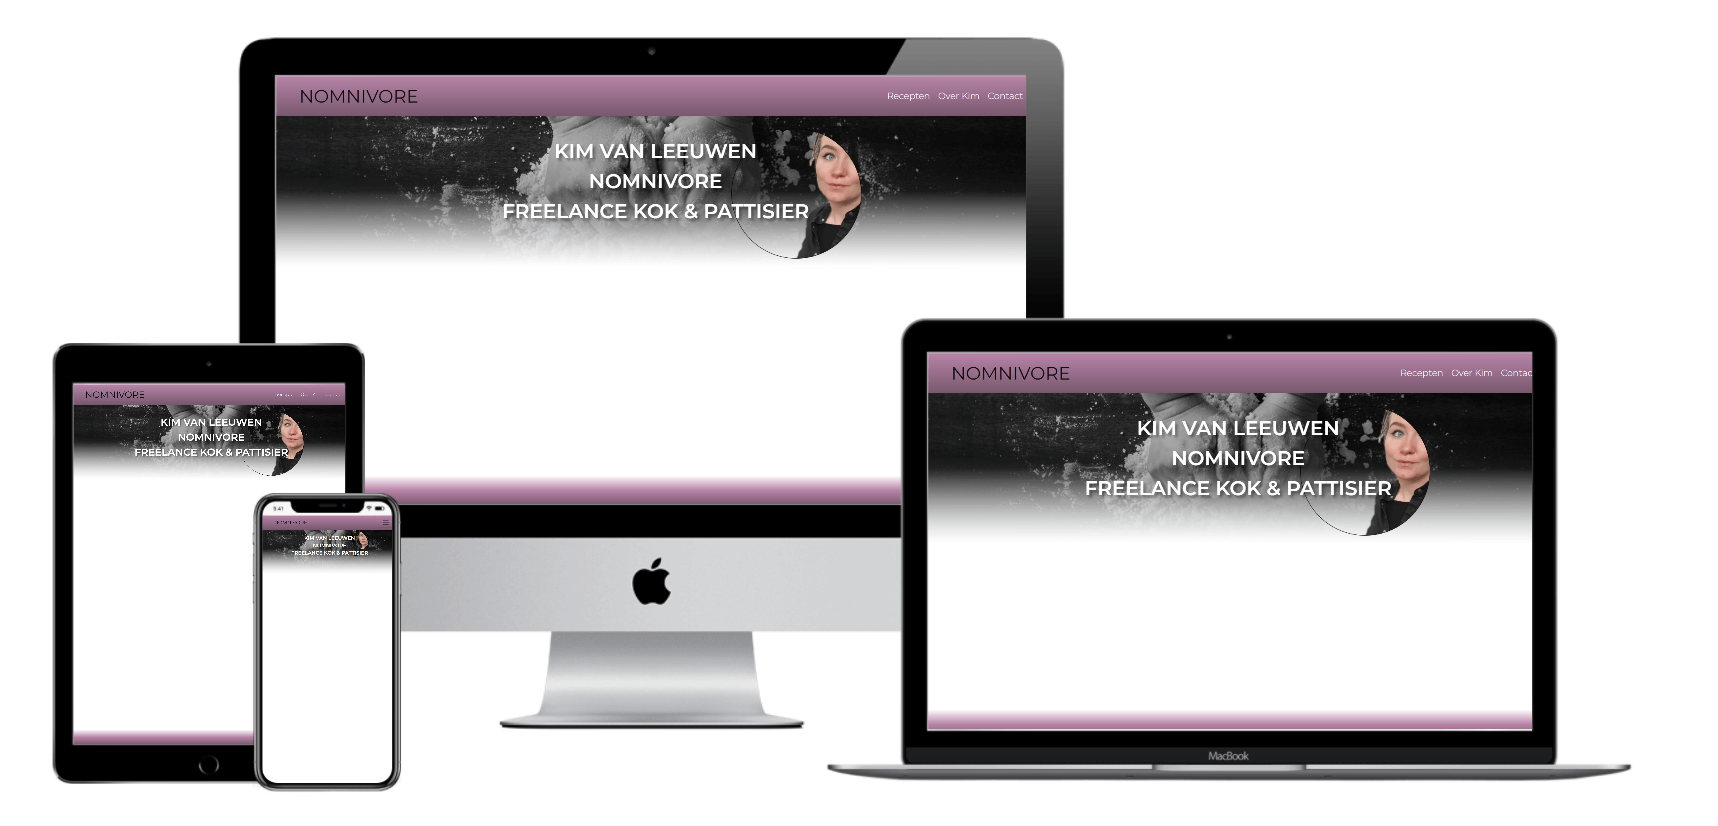
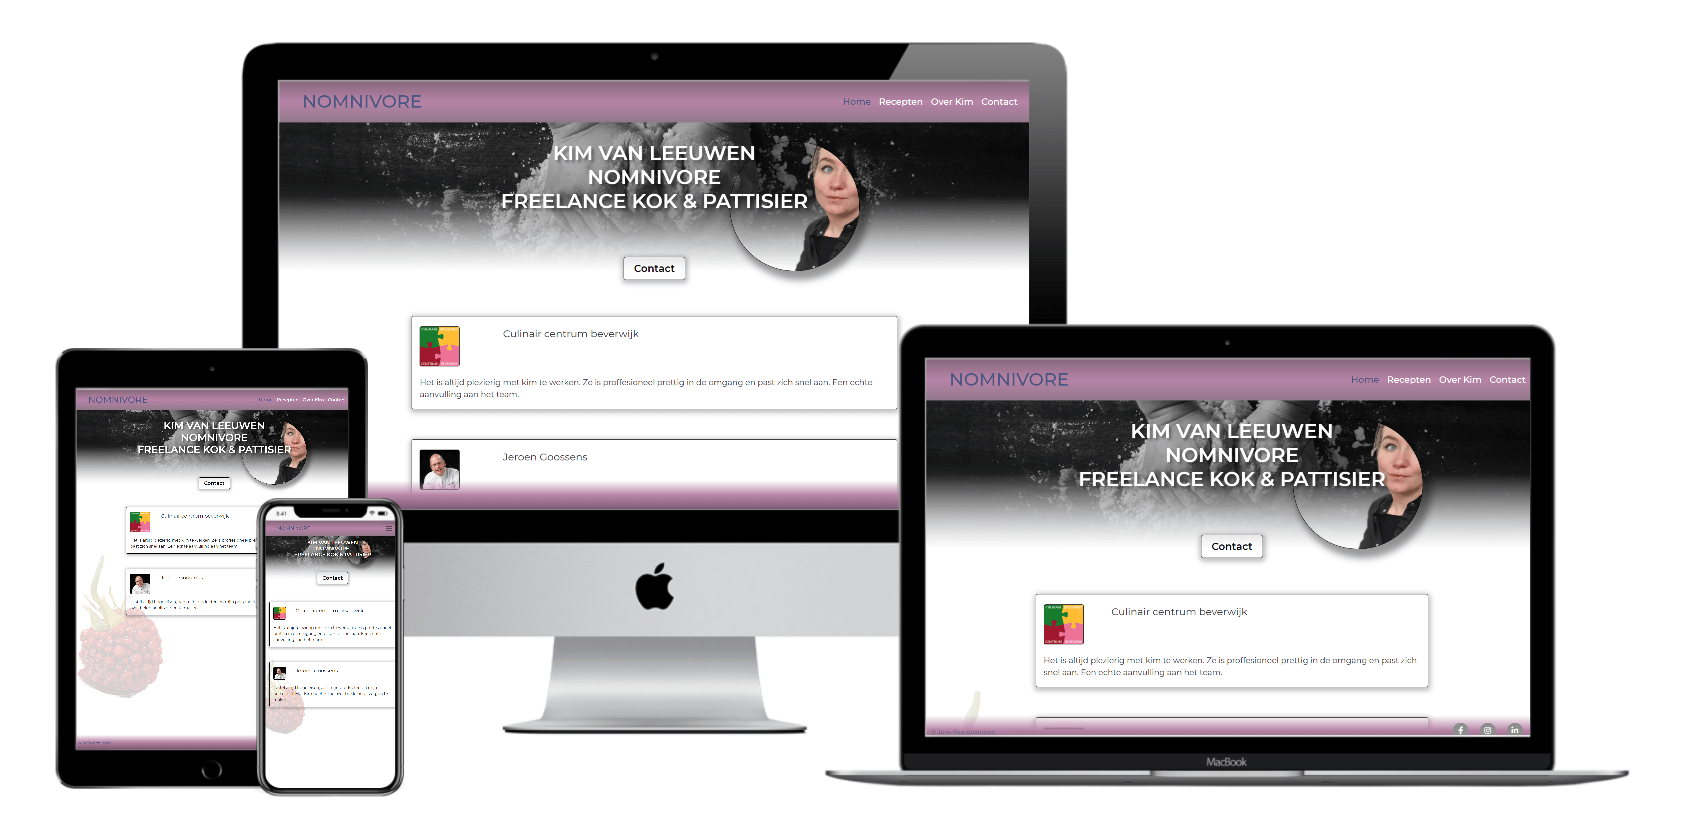
Added testing.md file, updated readme.md, corrected some code from dutch to english.

diff --git a/index.html b/index.html
@@ -62,30 +62,30 @@
     <div class="container-fluid">
         <div class="row justify-content-md-center">
             <div class="col-md-8">
-                <div class="col-md-12 referentie">
+                <div class="col-md-12 reference">
                     <div class="row">
                         <div class="col-2">
-                        <div class="referentie-logo-1"></div>
+                        <div class="reference-logo-1"></div>
                         </div>
-                        <div class="col-10 referentie-titel">Culinair centrum beverwijk</div>
+                        <div class="col-10 reference-titel"><h1>Culinair centrum beverwijk</h1></div>
                     </div>
                     <div class="row">
-                        <div class="col-12 referentie-text"><p>Het is altijd plezierig met kim te werken.  Ze is proffesioneel prettig in de omgang en past zich snel aan. 
+                        <div class="col-12 reference-text"><p>Het is altijd plezierig met kim te werken.  Ze is proffesioneel prettig in de omgang en past zich snel aan. 
                         Een echte aanvulling aan het team.</p>
                         </div>
                     </div>
                 </div>
             </div>
             <div class="col-md-8">
-                <div class="col-12 referentie">
+                <div class="col-12 reference">
                     <div class="row">
                         <div class="col-2">
-                        <div class="referentie-logo-2"></div>
+                        <div class="reference-logo-2"></div>
                         </div>
-                        <div class="col-10 referentie-titel">Jeroen Goossens</div>
+                        <div class="col-10 reference-titel"><h1>Jeroen Goossens</h1></div>
                     </div>
                     <div class="row">
-                        <div class="col-12 referentie-text"><p>Ik stel altijd hoge eisen, aan mijn producten en mijn personeel.
+                        <div class="col-12 reference-text"><p>Ik stel altijd hoge eisen, aan mijn producten en mijn personeel.
                         Met Kim hoef ik me over beide nooit zorgen te maken.</p>
                         </div>
                     </div>

diff --git a/assets/css/style.css b/assets/css/style.css
@@ -115,14 +115,14 @@ body a:hover{
     color: #000000;
 }
 
-.referentie{
+.reference{
     border: 1px solid #000;
     box-shadow: 1px 3px 10px 4px rgba(0, 0, 0, 0.25);
     margin-bottom: 60px;
     border-radius: 4px;
 }
 
-.referentie-logo-1{
+.reference-logo-1{
     width: 50px;
     height: 50px;
     background-image: url("../images/ccb-logo.png");
@@ -133,7 +133,7 @@ body a:hover{
     margin-top: 20px;
 }
 
-.referentie-logo-2{
+.reference-logo-2{
     width: 50px;
     height: 50px;
     background-image: url("../images/jeroen-goossens.jpg");
@@ -144,13 +144,13 @@ body a:hover{
     margin-top: 20px;
 }
 
-.referentie-titel{
+.reference-titel h1{
     font-size: 20px;
     margin-top: 20px;
     padding-left: 0px;
 }
 
-.referentie-text{
+.reference-text{
     margin-top: 20px;
 }
 
@@ -321,7 +321,7 @@ body a:hover{
     .social-links{
     padding: 15px 5px 10px 5px;
     }
-    .referentie-titel{
+    .reference-titel{
     padding-left: 20px;
     }
     .butterfly-background{
@@ -375,7 +375,7 @@ body a:hover{
     .recipe-section{
     margin: 60px 0px 20px 0px;
     }
-    .referentie-logo-1,.referentie-logo-2{
+    .reference-logo-1,.reference-logo-2{
     width: 70px;
     height: 70px;
     }
@@ -391,6 +391,7 @@ body a:hover{
         background-size: cover;
         box-shadow: 10px 10px 14px 8px rgba(0, 0, 0, 0.4);
     }
+    
 }
 
 @media screen and (max-width: 540px){
@@ -420,7 +421,7 @@ body a:hover{
     background-size: contain;
     background-repeat: no-repeat;
     }
-    .referentie-logo-1,.referentie-logo-2{
+    .reference-logo-1,.reference-logo-2{
         width: 80px;
         height: 80px;
     }

diff --git a/README.md b/README.md
@@ -1,9 +1,14 @@
 <h1 align="center">Nomnivore</h1>
 
+<p align="center">Nomnivore is the company of Kim van Leeuwen where she introduces herself as your go to freelance pastry chef.
+It showcases her skills and gives people free access to some of her favorite pastry recipies.</p>
+
 [View the live project here.](https://jorispaarde.github.io/Nomnivore-website/)
 
 
 <h2 align="center"><img src="/assets/images/mockup-image.png"></h2>
+
+---
 
 ## User Experience (UX)
 
@@ -13,7 +18,8 @@
 
         1. As a First Time Visitor, I want to learn about what Nomnivore / Kim is and does.
         2. As a First Time Visitor, I want to be able to easily navigate throughout the site to find content.
-        3. As a First Time Visitor, I want to look for testimonials to find out how skilled Kim is. I also want to locate her social media links to see her products and events.
+        3. As a First Time Visitor, I want to look for testimonials to find out how skilled Kim is.
+        4. As a First Time Visitor, I want to locate her social media links to see her products and events.
 
     -   #### Returning Visitor Goals
 
@@ -22,37 +28,66 @@
 
     -   #### Frequent User Goals
 
-        1. As a Frequent User, I want to check to see if there are any newly added recipies or events.
+        1. As a Frequent User, I want to check to see if there are any newly added recipies.
 
 
 -   ### Design
 
     -   #### Colour Scheme
+
         -   The main colours used are Mauve, black, white and grey.
+
     -   #### Typography
+
         -   The Montserrat font is the main font used on this website with Sans Serif as a backup.
             Montserrat is a clean font used in a website Kim liked.
             It's a modern font inspired by old posters and signs in the similarly named neighbourhood in Buenos Aires.
+
     -   #### Imagery
+
         -   Imagery is focused on showing the skills Kim posseses, and being appetizing to induce people to try and make her pastry recipies.
 
-*   ### Prototype
+*   ### Mockup
 
-    -  Prototype of this site was made in Figma. U can view it [here](https://www.figma.com/file/Xe8XdfTe7rEyKsy3L3sw9s/Awesome?node-id=0%3A1) 
+    -  The mockup of this site was made in Figma. U can view it [here](https://www.figma.com/file/Xe8XdfTe7rEyKsy3L3sw9s/Awesome?node-id=0%3A1) 
 
+---
 
 ## Features
 
+###   All pages
+
 -   Responsive on all device sizes
+-   Links to socials
+
+####   main page
+
+-   References from previous customers
+-   Contact button
+
+#### recipe page
+
+-   multiple recipies for visitors to try out
+
+#### "Over Kim"
+
+-   More extensive introduction to kim.
+
+# contact page
 
 -   E-mail form
+
+---
 
 ## Technologies Used
 
 ### Languages Used
 
 -   [HTML5](https://en.wikipedia.org/wiki/HTML5)
+    - HTML5 was used to build the main structure and content of the page.
 -   [CSS3](https://en.wikipedia.org/wiki/Cascading_Style_Sheets)
+    - CSS3 was used to give the html styling and layout.
+    And to make the page responsive to differentscreen sizes.
 
 ### Frameworks, Libraries & Programs Used
 
@@ -61,9 +96,9 @@
 1. [Google Fonts:](https://fonts.google.com/)
     - Google fonts was used to import the 'Montserrat' font into the style.css file.
 1. [Font Awesome:](https://fontawesome.com/)
-    - Font Awesome was used on all pages throughout the website to add icons for aesthetic and UX purposes.
+    - Font Awesome was used on all pages throughout the website to add the social icons.
 1. [jQuery:](https://jquery.com/)
-    - jQuery came with Bootstrap to make the navbar responsive but was also used for the smooth scroll function in JavaScript.
+    - jQuery came with Bootstrap to make the navbar responsive.
 1. [Git](https://git-scm.com/)
     - Git was used for version control by utilizing the terminal in gitpod to regularly commit, with comments, to Git and Push to GitHub.
 1. [GitHub:](https://github.com/)
@@ -72,72 +107,16 @@
     - Gimp was used to edit images and photos for the website.
 1. [Figma:](https://figma.com/)
     - Figma was used to create the website design and prototype.
+1. [TinyPNG](https://tinypng.com/)
+    - TinyPNG was used to compress all images to ensure faster load times.
+
+---
 
 ## Testing
 
-The W3C Markup Validator and W3C CSS Validator Services were used to validate every page of the project to ensure there were no syntax errors in the project.
+All testing can be found [here](https://github.com/JorisPaarde/Nomnivore-website/blob/master/TESTING.md)
 
--   [W3C Markup Validator](https://jigsaw.w3.org/css-validator/#validate_by_input) - [Results](fill in)
--   [W3C CSS Validator](https://jigsaw.w3.org/css-validator/#validate_by_input) - [Results](fill in)
-
-### Testing User Stories from User Experience (UX) Section
-
--   #### First Time Visitor Goals
-
-    1. As a First Time Visitor, I want to...
-
-        1. Upon entering the site.
-        2. The main points 
-        3. The user.
-
-    2. As a First Time Visitor, I want to...
-
-        1. The 
-        2. At 
-        3. On 
-
-    3. As a First Time Visitor, I want to...
-        1. Once 
-        2. The 
-        3. At  
-
--   #### Returning Visitor Goals
-
-    1. As a Returning Visitor, I want.
-
-        1. These a
-        2. They 
-
-    2. As a Returning Visitor, I want to...
-
-        1. The nav
-        2. Here 
-        3. The foot 
-        4. Whichever 
-        5. The email 
-
-
--   #### Frequent User Goals
-
-    1. As a Frequent User, I want to .
-
-         1. The user would
-         2. something
-
-
-### Further Testing
-
--   The Website was tested on 
--   The website was viewed on 
--   A large amount of testing was done to 
--   asked to review
-
-### Bugs
-
--   Hero image was not displaying with the correct white overlay by default. Added a linear gradient overlay to fix this.
--   Footer layout broke when adding href to the copyright text. Corrected by changing text to show copyright logo and adding col-xs-auto in staed of col-ms-auto.
--   Header layout broke on smaller screens. added media query to .navbar-brand h1 to rduce font size.
--   Unable to create space between recipies on large screens and losing padding on smallest screens. Solved by adding a col-12 inside the col-lg-6.
+---
 
 ## Deployment
 
@@ -147,14 +126,10 @@ The project was deployed to GitHub Pages using the following steps...
 
 1. Log in
 
-### Forking the GitHub Repository
-
-By forking.. use the following steps...
-
-1. Log in to github
-2.
 
 ### Making a Local Clone
+
+To make a local clone of this project, follow these steps:
 
 1. Log in to github
 2. 
@@ -174,16 +149,18 @@ $ git clone https://github.com/YOUR-USERNAME/YOUR-REPOSITORY
 > Unpacking objects: 100% (10/10), done.
 ```
 
-Click [Here](https://help.github.com/en/github/creating-cloning-and-archiving-repositories/cloning-a-repository#cloning-a-repository-to-github-desktop) to retrieve pictures for some of the buttons and more detailed explanations of the above process.
+[Here]().
+
+---
 
 ## Credits
 
 ### Code
 
+All the below mentioned code is also marked with comments in the code itself.
+
 -   The social icons code came from the cv assignment lesson in the [code institute LMS](https://learn.codeinstitute.net/courses/course-v1:codeinstitute+FE+2017_T3/courseware/616289d66b5641a3808cc43e53842695/b51f7b8b815c4bcd9979d2281b6d97a9/)
-
 -   Copied and adjusted navbar from the [bootstrap website](https://getbootstrap.com/docs/4.0/components/navbar/).
-
 -   [Bootstrap4](https://getbootstrap.com/docs/4.4/getting-started/introduction/): Bootstrap Library used to create the main structure of the pages of the website.
 
 ### Content

diff --git a/TESTING.md b/TESTING.md
@@ -1,0 +1,52 @@
+
+
+The W3C Markup Validator and W3C CSS Validator Services were used to validate every page of the project to ensure there were no syntax errors in the project.
+
+-   [W3C Markup Validator](https://jigsaw.w3.org/css-validator/#validate_by_input) - [Results](fill in)
+-   [W3C CSS Validator](https://validator.w3.org/#validate_by_input) - [Results](fill in)
+
+### Testing User Stories from User Experience (UX) Section
+
+-   #### First Time Visitor Goals
+
+    1. As a First Time Visitor, I want to learn about what Nomnivore / Kim is and does.
+        1. The hero image, as well as the hero text give a good quick idea of what kim does.
+        2. The about kim and recipe sections alow the user to find more information.
+     2. As a First Time Visitor, I want to be able to easily navigate throughout the site to find content.
+        1. the navbar gives easy acces to the different pages of the site. the fact that it sticks to the top allows for easy navigation
+            regardless of the users location on the site.
+    3. As a First Time Visitor, I want to look for testimonials to find out how skilled Kim is.
+        1. Testimonials are front and center on the main page, giving the first time visitor an immediate idea of Kim's skill level.
+    4. As a First Time Visitor, I want to locate her social media links to see her products and events.
+ 
+
+-   #### Returning Visitor Goals
+
+    1. As a Returning Visitor, I want to find the best way to get in contact with Kim with any questions I may have.
+        1. 
+    2. As a Returning Visitor, I want to find recipies for deliscious pastry.
+        1. 
+        2. 
+
+
+-   #### Frequent User Goals
+
+    1. As a Frequent User, I want to check to see if there are any newly added recipies.
+
+        1. The user would
+        2. something
+
+
+### Further Testing
+
+-   The Website was tested on 
+-   The website was viewed on 
+-   A large amount of testing was done to 
+-   asked to review
+
+### Bugs
+
+-   Hero image was not displaying with the correct white overlay by default. Added a linear gradient overlay to fix this.
+-   Footer layout broke when adding href to the copyright text. Corrected by changing text to show copyright logo and adding col-xs-auto in staed of col-ms-auto.
+-   Header layout broke on smaller screens. added media query to .navbar-brand h1 to rduce font size.
+-   Unable to create space between recipies on large screens and losing padding on smallest screens. Solved by adding a col-12 inside the col-lg-6.
